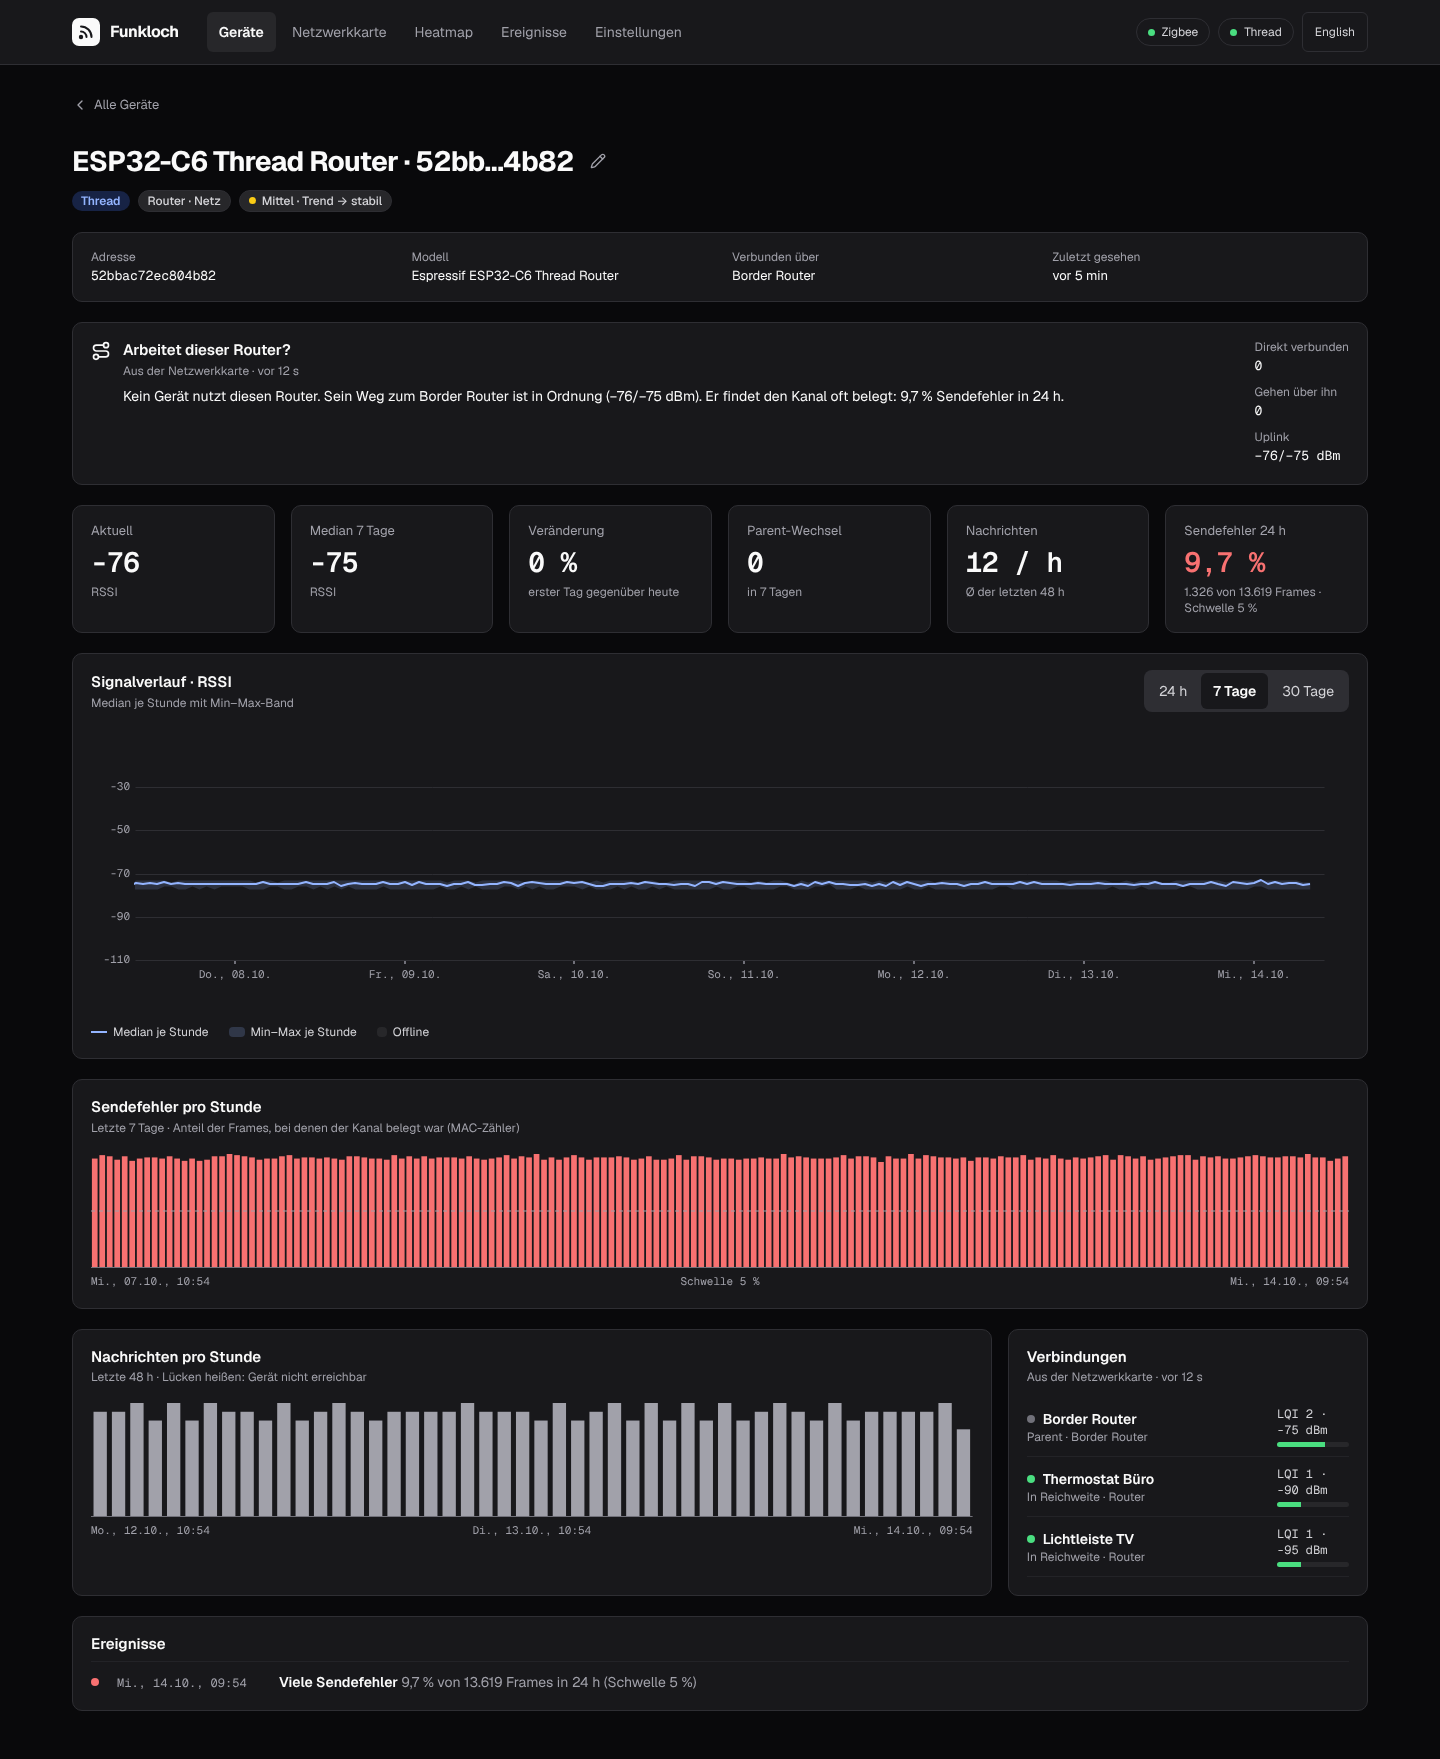
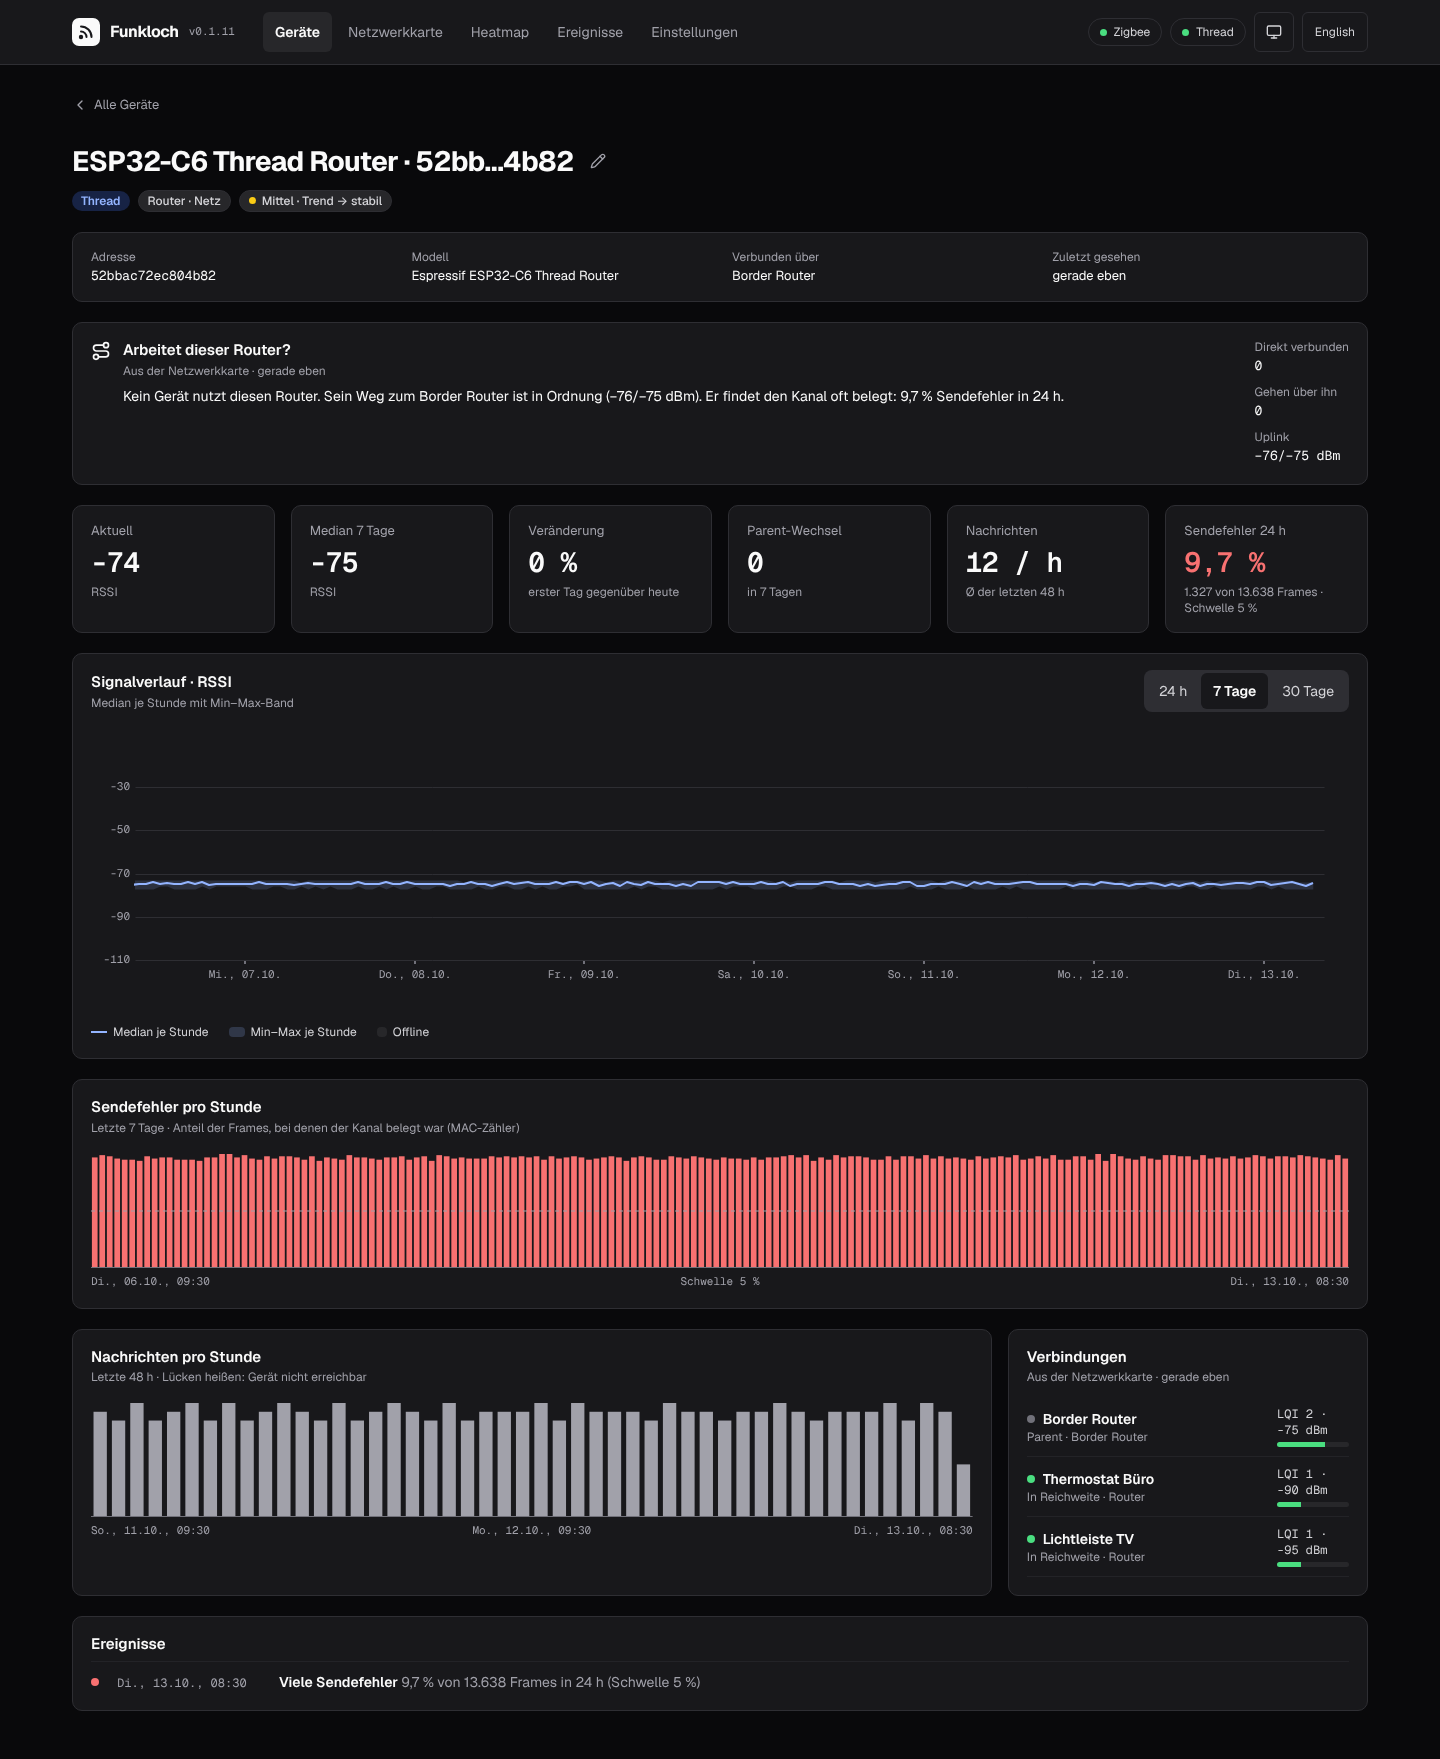
Screenshots after every change to main; the network map as the main picture (#7)
* Thread: read the routers' MAC counters and show the transmit error rate

getNetworkDiagnosticTask now asks for macCounters as well (ot-br-posix
src/rest/diagnostic_types.hpp, src/rest/json.cpp MacCounters2Json). Each
reading is stored in a new counters table; the rate is
Δ ifOutErrors / (Δ ifOutUcastPkts + Δ ifOutBroadcastPkts) between readings,
a counter that went down is a restart and counts from zero again.
OpenThread fills ifOutErrors with the failed clear channel assessments
(openthread src/core/thread/net_diag_tlvs.cpp MacCountersTlvValue::InitFrom).

- core/tx-errors.ts: deltas, rate over 24 h, hourly rates, transitions
  (marked from 5 %, back below 3 %, at least 200 frames)
- the hourly job reports tx_errors_high / tx_errors_normal; new
  notification rule "transmit errors", on by default
- device page of a Thread router: KPI of the last 24 h and a bar per hour
  over 7 days; the links card moved to its own component
- fake OTBR answers only the asked diagnostic types; the spec fixture
  carries macCounters
- demo: an ESP32-C6 Thread router that fails one frame in ten, counters
  for every Thread router, live in the demo adapter too
- E2E counts come from the demo's definition
- docs: signal (formula, why 5 %), thread, notifications, README

Claude-Session: https://claude.ai/code/session_014ECkMsvRXpG2N5Y33vemiy

* Thread: name routers after their maker, rename on the device page

The network diagnostic now asks each router for vendorName and vendorModel
[…]

diff --git a/src/server/runtime.ts b/src/server/runtime.ts
@@ -50,7 +50,10 @@ const openDatabase = (config: Config, now: number) => {
 
 export const startRuntime = (config: Config): Runtime => {
   const log = createLog(config.LOG_LEVEL)
-  const startedAt = Date.now()
+  // The demo can stand still at one moment, for screenshots that only change with the look
+  const frozen = config.FUNKLOCH_DEMO ? config.FUNKLOCH_DEMO_NOW : undefined
+  const clock = frozen === undefined ? Date.now : () => frozen
+  const startedAt = clock()
   const db = openDatabase(config, startedAt)
   if (config.FUNKLOCH_RESET_PASSWORD && !config.FUNKLOCH_DEMO) {
     resetAdmin(db)
@@ -59,12 +62,12 @@ export const startRuntime = (config: Config): Runtime => {
   const settingsDefaults = defaultsFrom(config)
   const settings = () => loadSettings(db, settingsDefaults)
   const adapters = config.FUNKLOCH_DEMO
-    ? [createDemoAdapter(zigbeeMeta), createDemoAdapter(threadMeta)]
+    ? [zigbeeMeta, threadMeta].map((meta) => createDemoAdapter(meta, clock, frozen === undefined))
     : adaptersFromConfig(config, log, () => settings().networkmapHours)
   if (adapters.length === 0) {
     log.warn('No adapter is on: set ZIGBEE2MQTT_MQTT_URL or OTBR_URL, or FUNKLOCH_DEMO=1')
   }
-  const ingest = createIngest(db, log)
+  const ingest = createIngest(db, log, clock)
   const stopAdapters = adapters.map((adapter) => adapter.start(ingest.emit))
   const mqttOut = config.ZIGBEE2MQTT_MQTT_URL
     ? createMqttPublisher({
@@ -83,18 +86,19 @@ export const startRuntime = (config: Config): Runtime => {
         notifying = false
       })
   }
-  const stopScheduler = startScheduler(db, log, settings, { minutely: notify })
+  const stopScheduler = startScheduler(db, log, settings, { minutely: notify }, clock)
   const live = createLiveFeed(db)
   log.info(
     {
       adapters: adapters.map((a) => a.meta.id),
       demo: config.FUNKLOCH_DEMO,
+      ...(frozen === undefined ? {} : { demoNow: new Date(frozen).toISOString() }),
       dataDir: config.DATA_DIR,
     },
     'funkloch started',
   )
 
-  const viewContext = (): ViewContext => ({ db, now: Date.now(), settings: settings(), adapters })
+  const viewContext = (): ViewContext => ({ db, now: clock(), settings: settings(), adapters })
 
   const stop = async () => {
     live.stop()

diff --git a/tests/e2e/screenshots.spec.ts b/tests/e2e/screenshots.spec.ts
@@ -1,13 +1,30 @@
 // bun run screenshots: the pictures for the README and the docs, light and dark
 import { expect, test } from '@playwright/test'
-import { DEVICES } from './demo'
+import { DEVICES, SCREENSHOT_NOW } from './demo'
 
 const DIR = 'docs/screenshots'
+
+// The browser's clock at the demo's moment too, so nothing on a page depends on the day it runs
+test.beforeEach(async ({ page }) => {
+  await page.clock.setFixedTime(SCREENSHOT_NOW)
+})
 
 for (const scheme of ['light', 'dark'] as const) {
   test.describe(scheme, () => {
     test.use({ colorScheme: scheme })
     const suffix = scheme === 'dark' ? '-dark' : ''
+
+    test('network map, the picture on top of the README', async ({ page }) => {
+      await page.goto('/network')
+      await expect(page.getByRole('link', { name: /^Koordinator/ })).toBeVisible()
+      // the build-up animation has ended, so every line and tile is drawn
+      await page.waitForTimeout(2500)
+      await page.screenshot({
+        path: `${DIR}/hero${suffix}.png`,
+        fullPage: true,
+        animations: 'disabled',
+      })
+    })
 
     test('device list', async ({ page }) => {
       await page.goto('/')

diff --git a/playwright.config.ts b/playwright.config.ts
@@ -1,8 +1,11 @@
 import { defineConfig, devices } from '@playwright/test'
+import { SCREENSHOT_NOW } from './tests/e2e/demo'
 
 const PORT = 8099
 /** A second server without the demo, for the login */
 const AUTH_PORT = 8098
+/** bun run screenshots: the demo stands still at one moment (tests/e2e/demo.ts) */
+const screenshots = process.env.FUNKLOCH_SCREENSHOTS === '1'
 // Outside the Playwright image a preinstalled Chromium can be named here
 const executablePath = process.env.PLAYWRIGHT_CHROMIUM_PATH || undefined
 
@@ -59,10 +62,12 @@ export default defineConfig({
     {
       command: 'bun serve.ts',
       url: `http://localhost:${PORT}/healthz`,
-      reuseExistingServer: !process.env.CI,
+      // A running server may be at another time; the screenshots always start their own
+      reuseExistingServer: !process.env.CI && !screenshots,
       timeout: 60_000,
       env: {
         FUNKLOCH_DEMO: '1',
+        ...(screenshots ? { FUNKLOCH_DEMO_NOW: SCREENSHOT_NOW } : {}),
         DATA_DIR: 'test-results/demo-data',
         PORT: String(PORT),
         TZ: 'Europe/Berlin',

diff --git a/src/demo/adapter.ts b/src/demo/adapter.ts
@@ -15,7 +15,12 @@ import {
 
 export const LIVE_EVERY_MS = 3000
 
-export const createDemoAdapter = (meta: ProtocolMeta, clock: () => number = Date.now): Adapter => {
+export const createDemoAdapter = (
+  meta: ProtocolMeta,
+  clock: () => number = Date.now,
+  /** false: the network as seeded, with no readings coming in (screenshots at a fixed time) */
+  live = true,
+): Adapter => {
   const status: AdapterStatus = { connected: true, error: null, since: clock() }
   const devices = DEMO_DEVICES.filter((d) => d.protocol === meta.id)
   const online = devices.filter((d) => !(d.offline ?? []).some(([, to]) => to === 0))
@@ -33,6 +38,7 @@ export const createDemoAdapter = (meta: ProtocolMeta, clock: () => number = Date
       complete: true,
     })
     emit({ kind: 'bridge', protocol: meta.id, ts: now, online: true })
+    if (!live) return async () => {}
     const rnd = random(now)
     const timer = setInterval(() => {
       const device = online[Math.floor(rnd() * online.length)]

diff --git a/src/config.ts b/src/config.ts
@@ -21,6 +21,16 @@ export const configSchema = z.object({
   PORT: z.coerce.number().int().positive().default(8090),
   DATA_DIR: z.string().min(1).default('./data'),
   FUNKLOCH_DEMO: flag,
+  /**
+   * The demo at a fixed moment (ISO time) that does not move on, and without live readings, so the
+   * screenshots come out the same until the look changes
+   */
+  FUNKLOCH_DEMO_NOW: z
+    .string()
+    .optional()
+    .transform((value) => (value ? value : undefined))
+    .pipe(z.iso.datetime({ offset: true }).optional())
+    .transform((value) => (value === undefined ? undefined : Date.parse(value))),
   /** Forget the admin password at start, for a forgotten one; remove it again afterwards */
   FUNKLOCH_RESET_PASSWORD: flag,
   LOG_LEVEL: z.enum(['trace', 'debug', 'info', 'warn', 'error', 'fatal']).default('info'),

diff --git a/src/config.test.ts b/src/config.test.ts
@@ -25,6 +25,15 @@ describe('loadConfig', () => {
     expect(config.FUNKLOCH_DEMO).toBe(true)
   })
 
+  test('the demo can stand still at a moment given as ISO time', () => {
+    expect(loadConfig({}).FUNKLOCH_DEMO_NOW).toBeUndefined()
+    expect(loadConfig({ FUNKLOCH_DEMO_NOW: '' }).FUNKLOCH_DEMO_NOW).toBeUndefined()
+    expect(loadConfig({ FUNKLOCH_DEMO_NOW: '2026-10-13T06:30:00Z' }).FUNKLOCH_DEMO_NOW).toBe(
+      Date.parse('2026-10-13T06:30:00Z'),
+    )
+    expect(() => loadConfig({ FUNKLOCH_DEMO_NOW: 'yesterday' })).toThrow(/FUNKLOCH_DEMO_NOW/)
+  })
+
   test('rejects a network map interval below one hour and a broken URL', () => {
     expect(() => loadConfig({ ZIGBEE2MQTT_NETWORKMAP_HOURS: '0.5' })).toThrow(/NETWORKMAP/)
     expect(() => loadConfig({ OTBR_URL: 'not a url' })).toThrow(/OTBR_URL/)

diff --git a/tests/e2e/demo.ts b/tests/e2e/demo.ts
@@ -4,3 +4,9 @@ import { DEMO_DEVICES } from '../../src/demo/devices'
 
 export const DEVICES = DEMO_DEVICES.length
 export const THREAD_DEVICES = DEMO_DEVICES.filter((d) => d.protocol === 'thread').length
+
+/**
+ * The moment the screenshots show (FUNKLOCH_DEMO_NOW): the demo stands still there, so a picture
+ * changes only with the look. A morning, before the terrace socket's weak evening.
+ */
+export const SCREENSHOT_NOW = '2026-10-13T06:30:00Z'

diff --git a/README.md b/README.md
@@ -36,7 +36,7 @@ docker run -d --name funkloch --network host -v funkloch-data:/data \
 [FAQ](#-faq) •
 [Documentation](https://firsttris.github.io/funkloch/)
 
-<img src="docs/screenshots/devices.png" alt="Funkloch device list: Zigbee and Thread devices with signal bar, 24-hour sparkline, trend, last seen and parent device, worst first" width="900">
+<img src="docs/screenshots/hero.png" alt="Funkloch network map: the coordinator on top, each router with the devices that connect through it, signal bars on every link, a weak link that many devices hang on marked as a bottleneck" width="900">
 
 </div>
 
@@ -160,15 +160,18 @@ Reverse proxy, backups, password reset and every variable: [installation guide](
 
 <table>
   <tr>
+    <td><img src="docs/screenshots/devices.png" alt="Funkloch device list: Zigbee and Thread devices with signal bar, 24-hour sparkline, trend, last seen and parent device, worst first"></td>
     <td><img src="docs/screenshots/device.png" alt="Funkloch device detail: LQI history of a Zigbee temperature sensor over 7 days with min–max band, offline stretch and weak threshold"></td>
+  </tr>
+  <tr>
     <td><img src="docs/screenshots/network.png" alt="Funkloch network map of a Zigbee mesh: the coordinator on top, routers below with their devices, signal bars on every link"></td>
-  </tr>
-  <tr>
     <td><img src="docs/screenshots/heatmap-dark.png" alt="Funkloch heatmap in dark mode: signal quality of every Zigbee and Thread device by hour over 7 days, with a recurring evening dropout"></td>
-    <td><img src="docs/screenshots/events.png" alt="Funkloch events: offline, weak signal, falling trend and parent changes by day, with notification rules for ntfy, webhook and MQTT"></td>
   </tr>
   <tr>
+    <td><img src="docs/screenshots/events.png" alt="Funkloch events: offline, weak signal, falling trend and parent changes by day, with notification rules for ntfy, webhook and MQTT"></td>
     <td><img src="docs/screenshots/router.png" alt="Funkloch router check of an ESP32-C6 Zigbee router in the cellar: no device uses it, its neighbors cover the area, its way to the coordinator is weak"></td>
+  </tr>
+  <tr>
     <td><img src="docs/screenshots/thread-router-dark.png" alt="Funkloch Thread router in dark mode: transmit errors per hour over 7 days from the MAC counters, about 10 % against a threshold of 5 %"></td>
   </tr>
 </table>

diff --git a/docs/development.md b/docs/development.md
@@ -71,5 +71,8 @@ Recordings from real networks keep the schemas honest: see [Recording fixtures](
 **Release**: all checks (unless main's CI already ran them for the code: the release commit only
 raises the version), the image `tristanteu/funkloch` for amd64 and arm64 on Docker Hub, and the
 GitHub release. The image is started in CI whenever what it is built from changes; its build
-cache is the release's, so the release builds on layers that are already there. **Actions → Update screenshots** renews the pictures in
-`docs/screenshots` from the demo.
+cache is the release's, so the release builds on layers that are already there. **Update screenshots** renews the pictures in `docs/screenshots` from the demo after every push
+to main that touches the app (`src/`, `public/`, the texts, the screenshot test or the packages),
+and by hand under **Actions**; the commit it makes starts no other workflow. `bun run screenshots`
+runs the demo standing still at one moment (`FUNKLOCH_DEMO_NOW`, and the browser's clock with it),
+so a picture changes only when the look does and the workflow commits nothing otherwise.

diff --git a/CLAUDE.md b/CLAUDE.md
@@ -40,8 +40,8 @@ Update what the change affects, in the same commit, and only that:
 - the docs in `docs/` that describe it;
 - the texts in both `messages/de.json` and `messages/en.json`;
 - the README when a feature a user sees is added, changed or removed;
-- the screenshots after a change to the look: **Actions → Update screenshots → Run workflow**, then
-  look at the new pictures.
+- the screenshots after a change to the look: **Update screenshots** runs by itself after the push
+  to main (by hand under **Actions** too); look at the new pictures it commits.
 
 ## Checks
 

diff --git a/docs/installation.md b/docs/installation.md
@@ -96,6 +96,7 @@ Each network is on when its variable is set; everything else has a default.
 | `LOG_LEVEL` | `trace` to `fatal` | `info` |
 | `FUNKLOCH_RESET_PASSWORD` | `1`: forget the admin password at start | |
 | `FUNKLOCH_DEMO` | `1`: a demo network instead of your own, no login | |
+| `FUNKLOCH_DEMO_NOW` | with the demo: an ISO time it stands still at, without live readings (for the screenshots) | |
 
 Thresholds, the network map interval, retention, notification rules and channels are set in the
 web UI (**Settings** and **Events**) and kept in the database.

diff --git a/docs/index.md b/docs/index.md
@@ -5,6 +5,8 @@
 drop out and how they are connected, instead of one snapshot. One container next to Zigbee2MQTT
 and your border router, read-only, no cloud.
 
+![Funkloch network map: the coordinator on top, each router with the devices that connect through it, signal bars on every link, a weak link that many devices hang on marked as a bottleneck](screenshots/hero.png)
+
 ![Funkloch device list: Zigbee and Thread devices with traffic light, signal bar, 24-hour sparkline, trend and parent device, worst first](screenshots/devices.png)
 
 ## What it shows
